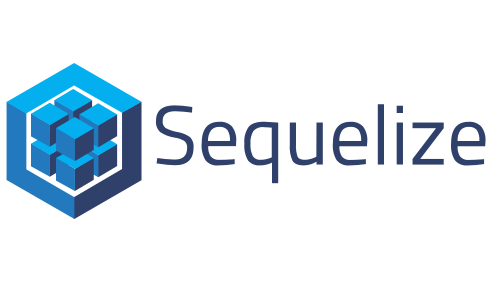
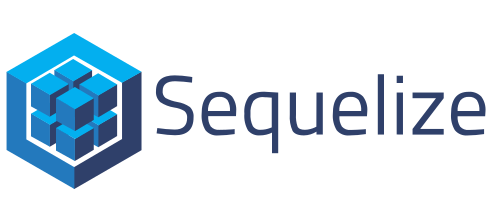
refactor: move carousel inline with text

Changed region(s): [[0.0, 0.1562, 0.9841, 0.625], [0.0, 0.4688, 0.2982, 0.8438], [0.5368, 0.625, 0.5666, 0.6875]]

diff --git a/src/screens/About.js b/src/screens/About.js
@@ -100,15 +100,21 @@ const About = (props) => {
           <Typography variant={"h5"} className={classes.title}>
             Technologies
           </Typography>
-          <Typography>
-            Lorem ipsum dolor sit amet, consectetur adipiscing elit. In tortor
-            justo, laoreet at congue vitae, ultricies ac purus. Proin rhoncus
-            cursus facilisis. Sed vitae elit mattis, dictum enim eu, auctor
-            ante. Phasellus sit amet dui nibh. Maecenas rhoncus augue in erat
-            consequat, in commodo lacus mattis. Suspendisse eget urna mollis,
-            varius leo non, sagittis orci.
-          </Typography>
-          <LogosCarousel/>
+        <Grid container direction={"row"} alignItems="center">
+          <Grid item xs={12} sm={9}>
+            <Typography>
+              Lorem ipsum dolor sit amet, consectetur adipiscing elit. In tortor
+              justo, laoreet at congue vitae, ultricies ac purus. Proin rhoncus
+              cursus facilisis. Sed vitae elit mattis, dictum enim eu, auctor
+              ante. Phasellus sit amet dui nibh. Maecenas rhoncus augue in erat
+              consequat, in commodo lacus mattis. Suspendisse eget urna mollis,
+              varius leo non, sagittis orci.
+            </Typography>
+          </Grid>
+          <Grid item xs={12} sm={3}>
+            <LogosCarousel/>
+          </Grid>
+        </Grid>
         </div>
 
 

diff --git a/src/components/Carousel.js b/src/components/Carousel.js
@@ -26,7 +26,7 @@ const CarouselItem = (props) => {
   return (
     <Paper elevation={0} style={{backgroundColor: theme.palette.background.default, textAlign: "center"}}>
       <Link href={props.item.url} title={props.item.name}>
-        <img style={{width: "25%", backgroundColor: "transparent"}} src={props.item.logo} alt={props.item.name}/>
+        <img style={{width: "70%", backgroundColor: "transparent"}} src={props.item.logo} alt={props.item.name} />
       </Link>
     </Paper>
   );
